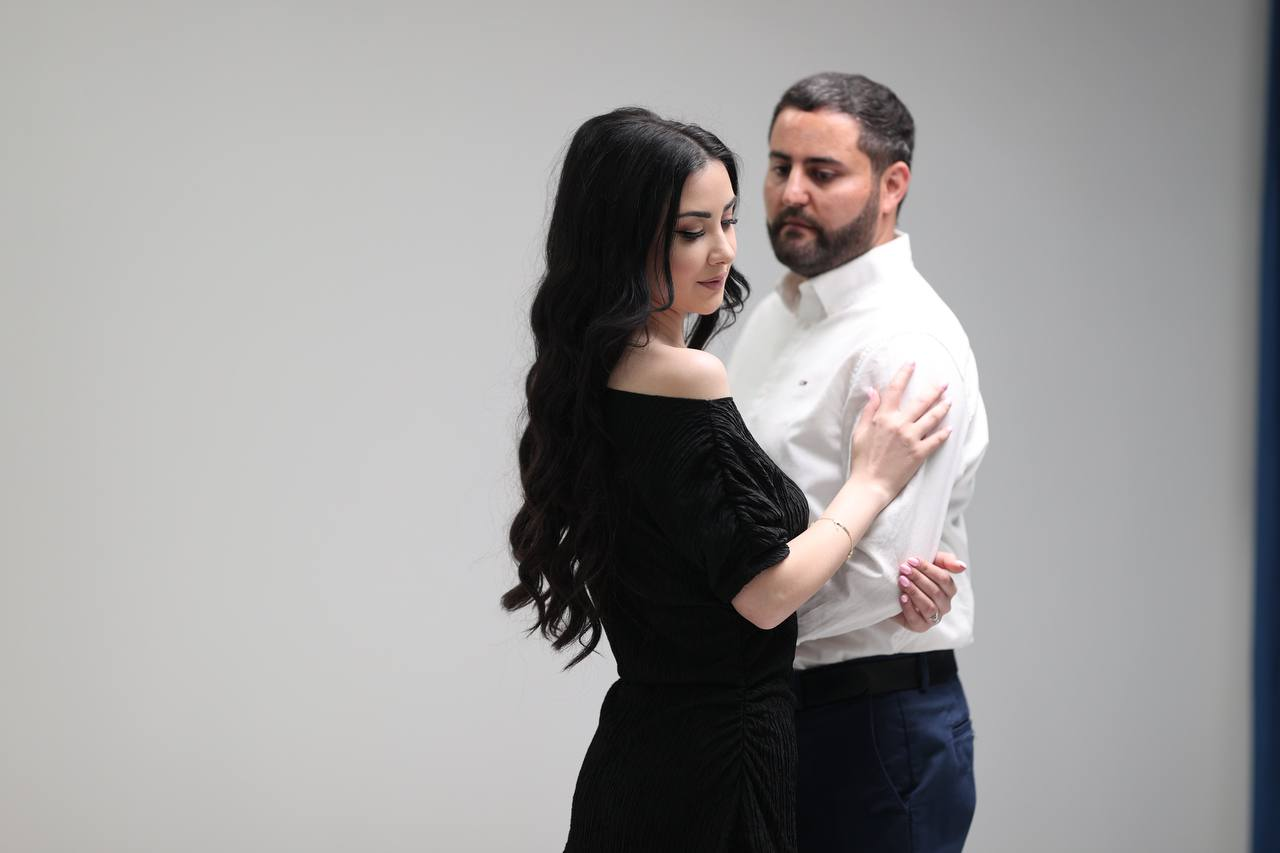
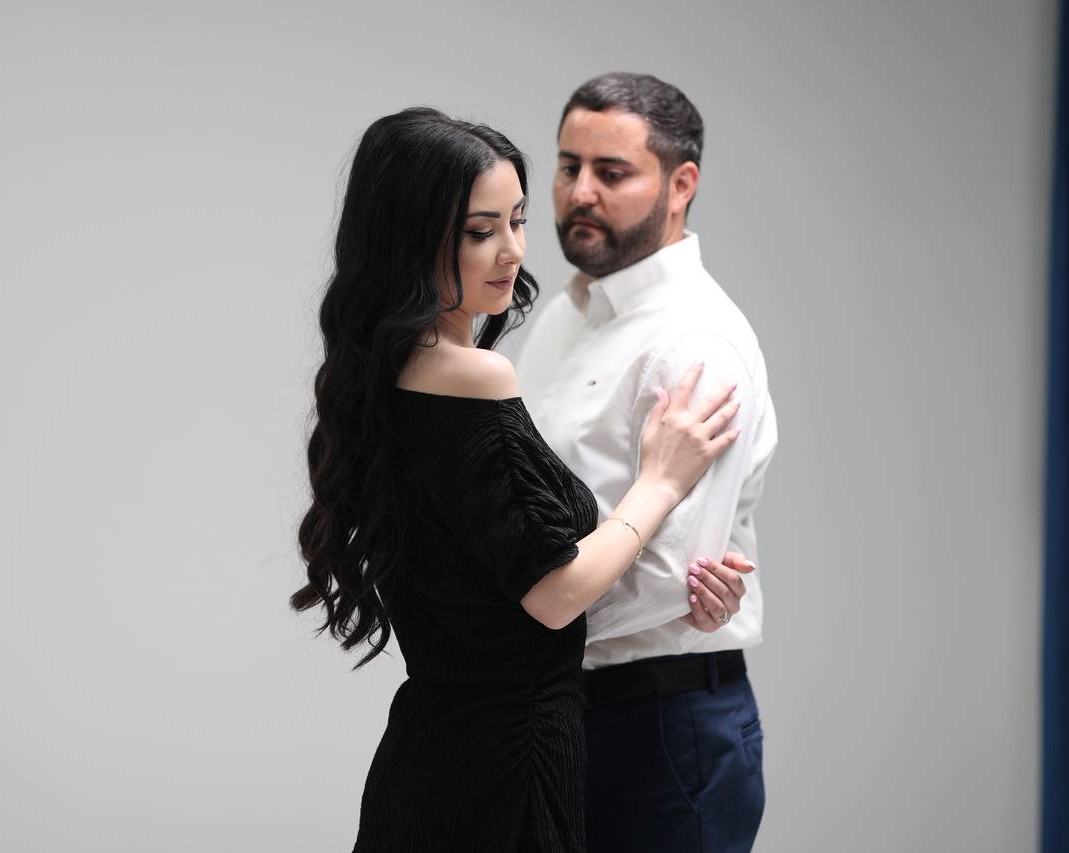
poiugfd

Changed region(s): [[0.247, 0.061, 0.7717, 1.0], [0.957, 0.2438, 0.9878, 1.0]]

diff --git a/src/components/wedding-invitation/index.jsx b/src/components/wedding-invitation/index.jsx
@@ -1,0 +1,79 @@
+import { motion, useAnimation } from "framer-motion";
+import { useState, useEffect } from "react";
+
+const WeddingInvitationEnvelope = ({ onOpen }) => {
+  const [isOpened, setIsOpened] = useState(false);
+  const topControls = useAnimation();
+  const bottomControls = useAnimation();
+  const sealControls = useAnimation();
+
+
+  const handleOpen = async () => {
+    if (!isOpened) {
+      await sealControls.start({
+        opacity: 0,
+        scale: 0.8,
+        transition: { duration: 0.3 },
+      });
+
+      await Promise.all([
+        topControls.start({
+          y: "-100%",
+          transition: { duration: 1.4, ease: [0.4, 0, 0.2, 1] },
+        }),
+        bottomControls.start({
+          y: "100%",
+          transition: { duration: 1.4, ease: [0.4, 0, 0.2, 1] },
+        }),
+      ]);
+
+      setIsOpened(true);
+      if (onOpen) onOpen();
+    }
+  };
+
+  return (
+    <div className="fixed inset-0 w-screen h-screen z-[9999] overflow-hidden bg-white/10 backdrop-blur-sm">
+      <motion.div
+        className="absolute top-0 left-0 w-full h-[60%] z-30 shadow-[0_10px_30px_rgba(0,0,0,0.15)]"
+        animate={topControls}
+        initial={{ y: 0 }}
+        style={{
+          backgroundColor: "#e7e4e4",
+          clipPath: "polygon(-120% 0%, 215% 0%, 50% 100%)",
+          borderBottom: "1px solid rgba(255,255,255,0.1)",
+        }}
+      />
+
+      <motion.div
+        className="absolute bottom-0 left-0 w-full h-[90%] z-10 shadow-inner"
+        animate={bottomControls}
+        initial={{ y: 0 }}
+        style={{
+          backgroundColor: "#c9c7c4", // Հիմնական մուգ գույնը
+          clipPath: "polygon(-120% 0%, 205% 0%, 50% 100%)",
+          rotate: "180deg",
+        }}
+      ></motion.div>
+
+      {!isOpened && (
+        <motion.div
+          animate={sealControls}
+          initial={{ opacity: 1, scale: 1 }}
+          whileHover={{ scale: 1.05 }}
+          className="absolute top-[59%] left-1/2 -translate-x-1/2 -translate-y-1/2 z-40 cursor-pointer drop-shadow-2xl"
+          onClick={handleOpen}
+        >
+          <img
+            src="letterbutton.png"
+            alt="Seal"
+            className="w-38 h-38 md:w-32 md:h-32 object-contain"
+          />
+          <h2 className="text-[#e7e4e4] text-[35px] mb-1 text-center">Բացել</h2>
+        </motion.div>
+      )}
+    </div>
+  );
+};
+
+export default WeddingInvitationEnvelope;

diff --git a/src/main.jsx b/src/main.jsx
@@ -1,24 +1,47 @@
-import { StrictMode } from 'react'
-import { createRoot } from 'react-dom/client'
-import App from './App.jsx'
-import { GlobalStyle } from './GlobalStyle.jsx'
-import './index.css';
-import { preloadFonts } from './fontLoader.js';
-import AOS from 'aos'
-import 'aos/dist/aos.css'
+import { StrictMode, useEffect, useState } from "react";
+import { createRoot } from "react-dom/client";
+import App from "./App.jsx";
+import { GlobalStyle } from "./GlobalStyle.jsx";
+import "./index.css";
+import { preloadFonts } from "./fontLoader.js";
+import { AnimatePresence, motion } from "framer-motion";
+import WeddingInvitationEnvelope from "./components/wedding-invitation/index.jsx";
 
-preloadFonts()
+preloadFonts();
 
-AOS.init({
-  duration: 1000,
-  offset: 400,
-  once: true,
-  easing: 'ease-out-cubic',
-})
+const Main = () => {
+  const [isOpened, setIsOpened] = useState(false);
+  useEffect(() => {
+    if (!isOpened) {
+      // Ֆիքսում ենք body-ն, որ չշարժվի
+      document.body.style.position = "fixed";
+      document.body.style.top = `0px`;
+      document.body.style.width = "100%";
+      document.body.style.overflow = "hidden";
+    } else {
+      // Վերադարձնում ենք նախկին վիճակին
+      document.body.style.position = "";
+      document.body.style.top = "";
+      document.body.style.width = "";
+      document.body.style.overflow = "auto";
+    }
+  }, [isOpened]);
 
-createRoot(document.getElementById('root')).render(
+  return (
+    <>
+      <GlobalStyle />
+      <App isOpened={isOpened} />
+      <AnimatePresence>
+        {!isOpened && (
+          <WeddingInvitationEnvelope onOpen={() => setIsOpened(true)} />
+        )}
+      </AnimatePresence>
+    </>
+  );
+};
+
+createRoot(document.getElementById("root")).render(
   <StrictMode>
-    <GlobalStyle />
-    <App />
+    <Main />
   </StrictMode>,
-)
+);

diff --git a/src/components/music-page/index.jsx b/src/components/music-page/index.jsx
@@ -3,40 +3,40 @@ import Music from "../../assets/vectors/music.png";
 import Song from "../../assets/audio/song.mp3";
 import { useRef, useState, useEffect } from "react";
 
-export const MusicPage = () => {
+export const MusicPage = ({ isPlaying }) => {
   const audioRef = useRef(null);
-  const [showTip, setShowTip] = useState(true);
-  const [isFading, setIsFading] = useState(false);
-
-  const hideTip = () => {
-    setIsFading(true);
-    setTimeout(() => setShowTip(false), 350);
-  };
-
-  const handleClick = () => {
-    if (audioRef.current) {
-      audioRef.current.play();
-    }
-    hideTip();
-  };
+  const [manualPlay, setManualPlay] = useState(false);
 
   useEffect(() => {
-    const timeout = setTimeout(hideTip, 4000);
-    return () => clearTimeout(timeout);
-  }, []);
+    if (isPlaying && audioRef.current) {
+      audioRef.current
+        .play()
+        .catch((err) => console.log("Playback error:", err));
+      setManualPlay(true);
+    }
+  }, [isPlaying]);
+
+  const handleClick = () => {
+    if (manualPlay) {
+      audioRef.current.pause();
+    } else {
+      audioRef.current.play();
+    }
+    setManualPlay(!manualPlay);
+  };
 
   return (
     <MusicPagePart onClick={handleClick}>
       <img loading="lazy" src={Music} alt="music" />
       <audio ref={audioRef} src={Song} loop />
-      {showTip && (
+      {/* {showTip && (
         <div
           onClick={handleClick}
           className={`tip ${isFading ? "fade-out" : ""}`}
         >
           Սեղմեք այստեղ
         </div>
-      )}
+      )} */}
     </MusicPagePart>
   );
 };

diff --git a/src/App.jsx b/src/App.jsx
@@ -1,4 +1,4 @@
-import { useEffect } from "react";
+import { useEffect, useState } from "react";
 import { FirstPage } from "./components/first-page";
 import { ForthPage } from "./components/forth-page";
 import { LastFooterPage } from "./components/last-footer-page";
@@ -8,25 +8,16 @@ import { ThirdPage } from "./components/third-page";
 import AOS from "aos";
 import "aos/dist/aos.css";
 import { BackToTop } from "./components/top-button";
+import WeddingInvitationEnvelope from "./components/wedding-invitation";
 
-function App() {
+function App({ isOpened }) {
   useEffect(() => {
-    AOS.init({
-      duration: 1000,
-      once: true,
-      offset: 50, // Փոքրացրու offset-ը, որ շուտ սկսի
-      easing: "ease-in-out",
-    });
-
-    // Սա շատ կարևոր է React-ի համար. թարմացնում է AOS-ը բեռնվելուց հետո
-    setTimeout(() => {
-      AOS.refresh();
-    }, 500);
+    AOS.init({ duration: 2000, once: true, easing: "ease-in-out" });
   }, []);
 
   return (
     <>
-      <MusicPage />
+      <MusicPage isPlaying={isOpened} />
       <FirstPage />
       <SecondPage />
       <ThirdPage />

diff --git a/src/components/forth-page/index.jsx b/src/components/forth-page/index.jsx
@@ -2,7 +2,7 @@ import { Container, Flexible } from "../../GlobalStyle";
 import { ForthPageBlock } from "./fortg-page-block";
 import { ForthPagePart, ForthPagePartContext } from "./styled";
 import Church from "../../assets/image/church.jpg";
-import Restaurant from "../../assets/image/restoran.webp";
+import Restaurant from "../../assets/image/restoran.jpg";
 import HeartLine from "../../assets/image/heartline.png";
 import LineAes from "../../assets/image/lineaes.png";
 import AttendanceGuests from "../AttendanceGuests";

diff --git a/src/components/wedding-invitation/README.md b/src/components/wedding-invitation/README.md
@@ -1,0 +1,59 @@
+# Full-Screen Envelope Opening Component
+
+A React component that creates a dramatic full-screen envelope opening animation using Framer Motion and Tailwind CSS.
+
+## Features
+
+- Full-screen display (100vh, 100vw) with fixed positioning
+- Screen split into top flap (60% height, brown) and bottom body (40% height, white) meeting diagonally in center
+- Clip-path creates clean envelope-like triangular flap
+- Custom image "Seal" (letterbutton.png) centered on screen as clickable element
+- Smooth slide animations for flap opening
+- onOpen callback triggered after animation completion
+- Minimalist aesthetic with scroll prevention
+
+## Usage
+
+```jsx
+import WeddingInvitationEnvelope from './components/wedding-invitation';
+
+function App() {
+  return (
+    <WeddingInvitationEnvelope onOpen={() => console.log('Envelope opened!')} />
+  );
+}
+```
+
+## Animation Details
+
+- **Sequence**: Image fade-out (0.8s) → 200ms overlap → Flaps slide apart (1.5s)
+- **Image Animation**: Opacity to 0 + scale to 0.9 with "easeInOut"
+- **Flaps Animation**: Top y: -50%, Bottom y: 50% simultaneously
+- **Total Duration**: ~2.3 seconds for smooth, cinematic feel
+- **Trigger**: Click on center image (letterbutton.png)
+
+## Behavior
+
+Component overlays the main app with a full-screen envelope design. **Prevents page scrolling** until the envelope is opened. Clicking the center image triggers the opening sequence: image fades out, then envelope halves slide apart to meet in the middle. This reveals the main application content in the center area while the envelope halves remain visible on top and bottom, creating an "open envelope" effect. Scrolling is re-enabled after opening.
+
+## Assets Required
+
+Place `letterbutton.png` in the public folder for the clickable seal image.
+
+## Dependencies
+
+- React
+- Framer Motion
+- Tailwind CSS
+
+## Customization
+
+You can customize the invitation content by editing the text inside the `invitation-card` div in the component.
+
+The animations can be adjusted by modifying the `transition` properties in the `useEffect` hook.
+
+## Troubleshooting
+
+- Ensure Framer Motion is installed: `npm install framer-motion`
+- Make sure Tailwind CSS is configured in your project
+- The component uses absolute positioning, so ensure the parent container has relative positioning if needed